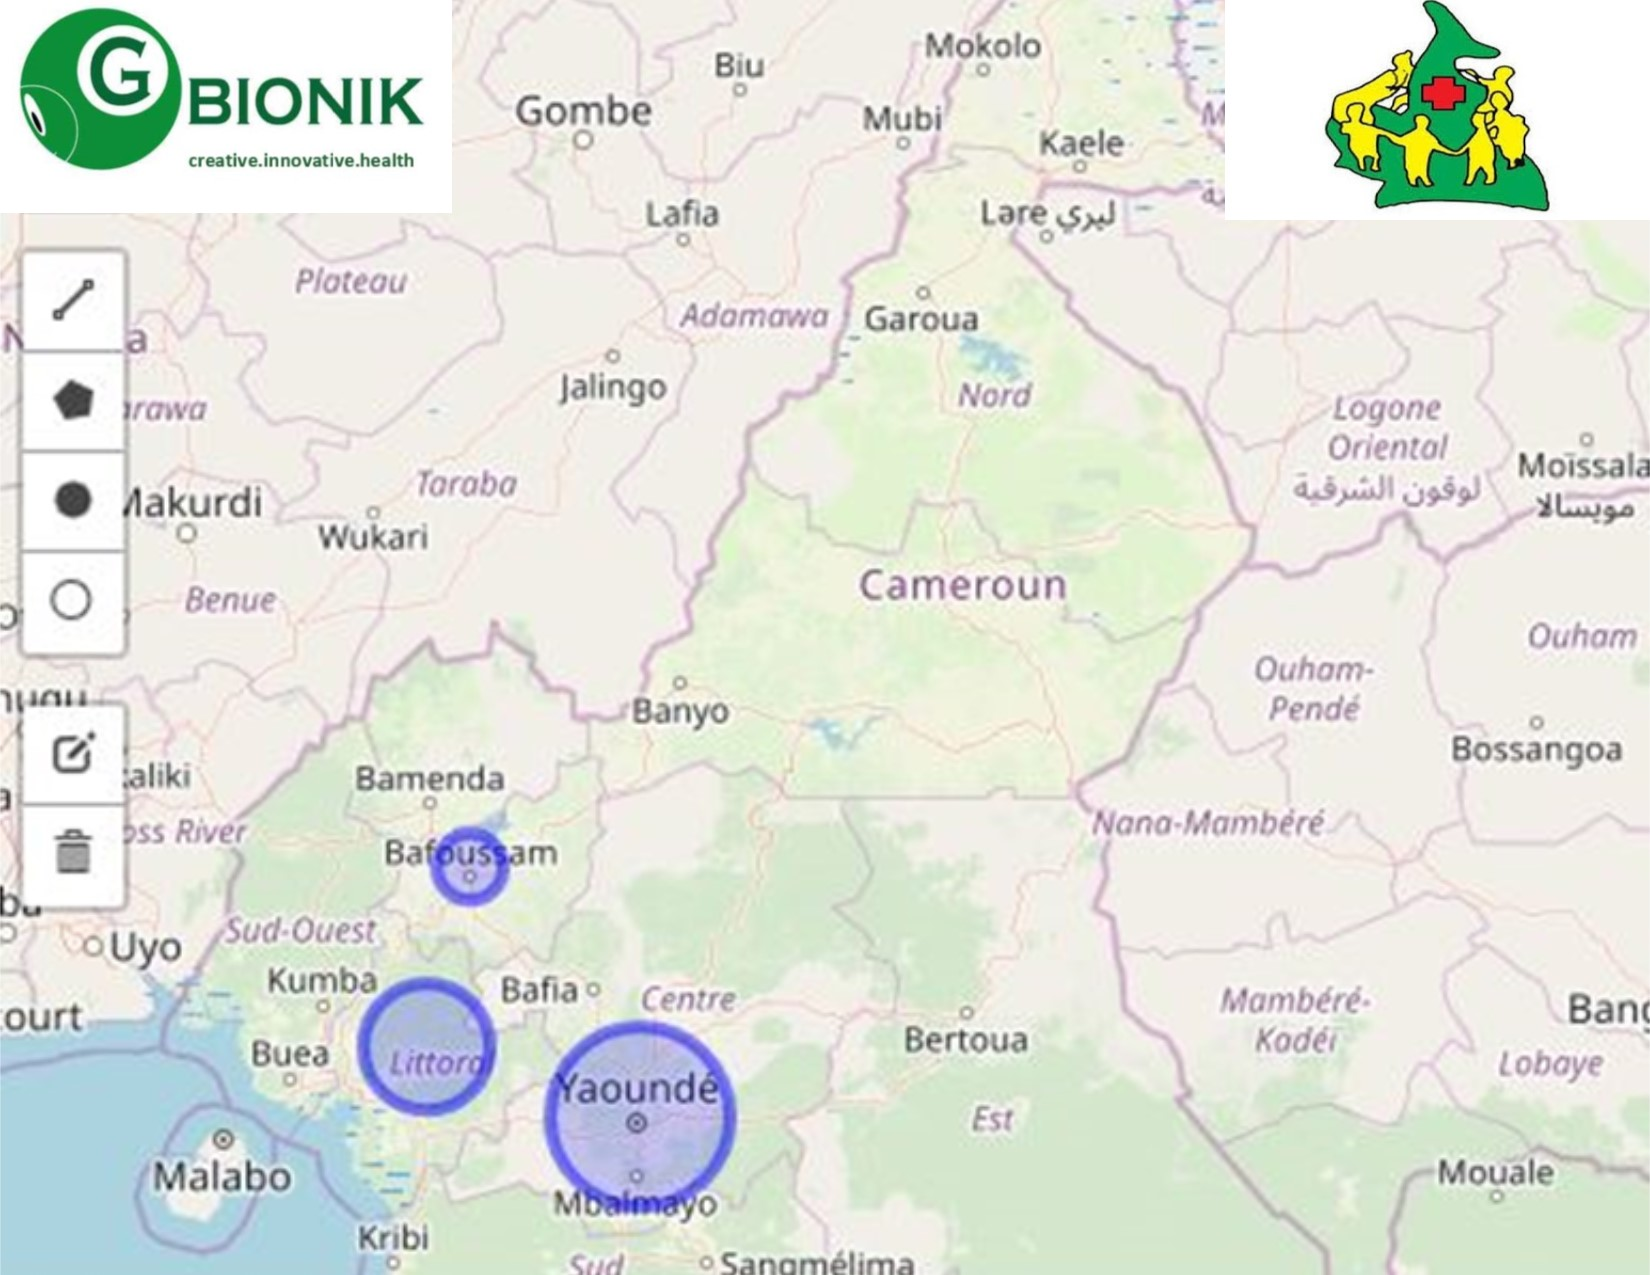
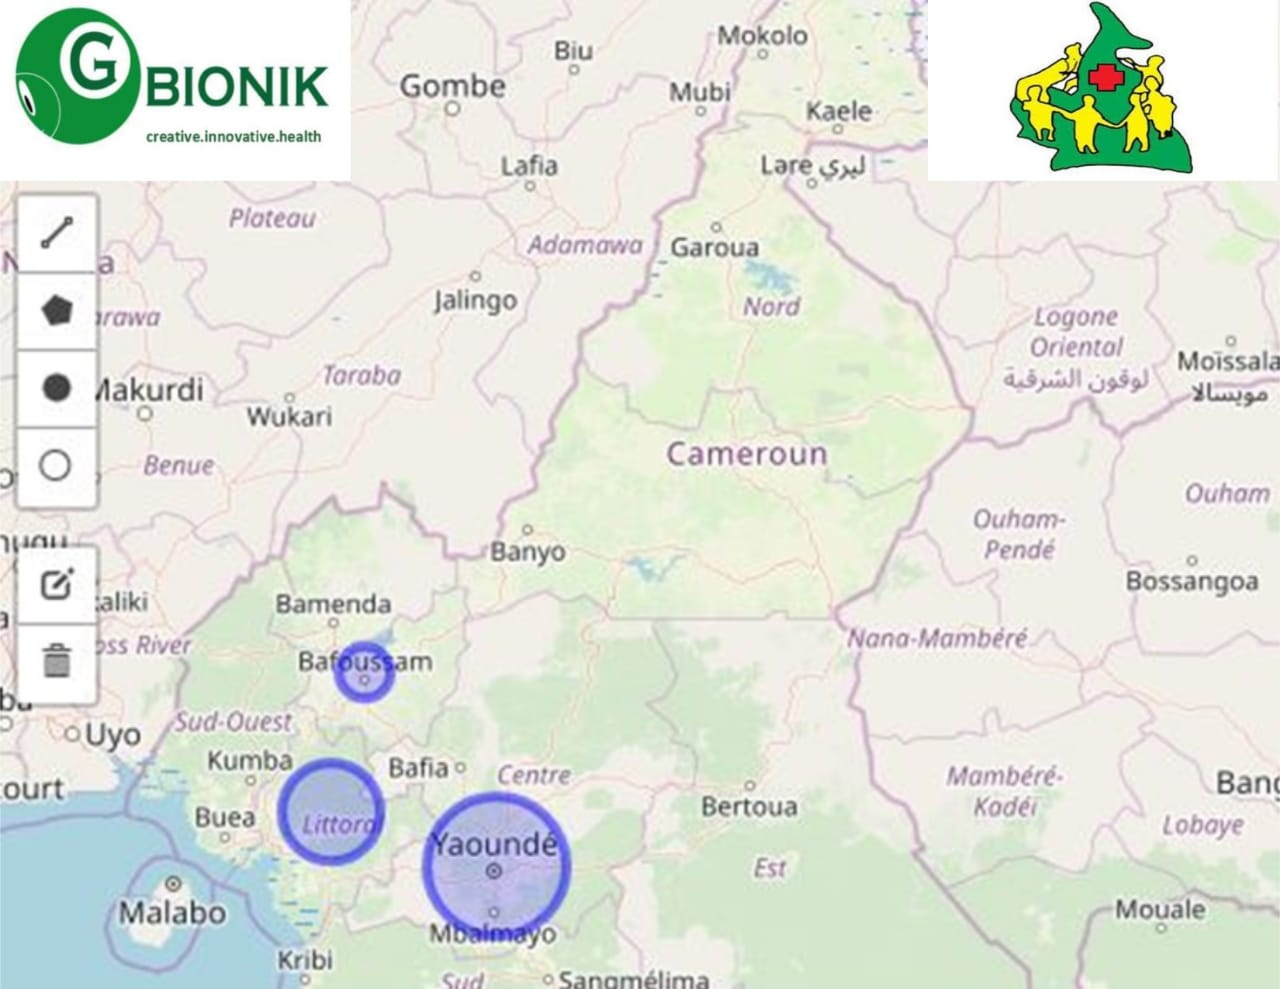
first commit

Changed region(s): [[0.0, 0.0, 0.2812, 0.182], [0.7188, 0.0, 0.9688, 0.182], [0.25, 0.1517, 0.2812, 0.182]]

diff --git a/scripts.js b/scripts.js
@@ -1,84 +1,84 @@
 function validate(){
-  var nameri = document.getElementById("Votre Score RI").value;
-  var namerg = document.getElementById("Votre Score RG").value;
-   var name = document.getElementById("Noms et Prenoms").value;
-   
-  var age = document.getElementById("Âge").value;
-  var quartier = document.getElementById("Quartier").value;
-  var ville = document.getElementById("Ville").value;
-  var phone = document.getElementById("Contact Personnel").value;
-  var percontact = document.getElementById("Personne à contacter").value;
-  var sexe = document.getElementById("Sexe").value;
-  var adpro = document.getElementById("Addresse professionnelle").value;
-  var email = document.getElementById("Email").value;
-  var error_message = document.getElementById("error_message");
+    var nameri = document.getElementById("Votre Score RI").value;
+    var namerg = document.getElementById("Votre Score RG").value;
+     var name = document.getElementById("Noms et Prenoms").value;
+     
+    var age = document.getElementById("Ã‚ge").value;
+    var quartier = document.getElementById("Quartier").value;
+    var ville = document.getElementById("Ville").value;
+    var phone = document.getElementById("Contact Personnel").value;
+    var percontact = document.getElementById("Personne Ã  contacter").value;
+    var sexe = document.getElementById("Sexe").value;
+    var adpro = document.getElementById("Addresse professionnelle").value;
+    var email = document.getElementById("Email").value;
+    var error_message = document.getElementById("error_message");
+    
+    error_message.style.padding = "10px";
+    
+  sex = name="entry.1512074174"
   
-  error_message.style.padding = "10px";
+    var text;
   
-sex = name="entry.1512074174"
-
-  var text;
-
-  if(nameri.length > 2){
-    text = "Entrez un correct Score RI";
-    error_message.innerHTML = text;
-    return false; 
-  }  
-  if(namerg.length > 2){
-    text = "Entrez un correct Score RG";
-    error_message.innerHTML = text;
-    return false; 
-  }  
-
-  if(name.length < 5){
-    text = "Entrez plus de lettres";
-    error_message.innerHTML = text;
-    return false;  
-  }
-  var sexe = document.querySelector('input[type=radio]:checked');
-	if(!sexe){
-    text = "selectionnez votre sexe";
-    error_message.innerHTML = text;
-    return false;
-	}
-  if(age.length > 2){
-    text = "Entrez un âge correct";
-    error_message.innerHTML = text;
-    return false;
-  }
-  if(quartier.length < 5){
-    text = "Entrez une ville correct";
-    error_message.innerHTML = text;
-    return false;}
+    if(nameri.length > 2){
+      text = "Entrez un correct Score RI";
+      error_message.innerHTML = text;
+      return false; 
+    }  
+    if(namerg.length > 2){
+      text = "Entrez un correct Score RG";
+      error_message.innerHTML = text;
+      return false; 
+    }  
   
-  if(ville.length < 5){
-    text = "Entrez une ville correct";
-    error_message.innerHTML = text;
-    return false;}
-
-  if(isNaN(phone) || phone.length != 9){
-    text = "Entrez un correct numéro personnel";
-    error_message.innerHTML = text;
-    return false;
-  }
-  if(isNaN(percontact) || percontact.length != 9){
-    text = "Entrez un numéro Valide";
-    error_message.innerHTML = text;
-    return false;}
-
-    if(adpro.length < 10){
-      text = "Entrez une addresse correct";
+    if(name.length < 5){
+      text = "Entrez plus de lettres";
+      error_message.innerHTML = text;
+      return false;  
+    }
+    var sexe = document.querySelector('input[type=radio]:checked');
+      if(!sexe){
+      text = "selectionnez votre sexe";
+      error_message.innerHTML = text;
+      return false;
+      }
+    if(age.length > 2){
+      text = "Entrez un Ã¢ge correct";
+      error_message.innerHTML = text;
+      return false;
+    }
+    if(quartier.length < 5){
+      text = "Entrez une ville correct";
+      error_message.innerHTML = text;
+      return false;}
+    
+    if(ville.length < 5){
+      text = "Entrez une ville correct";
       error_message.innerHTML = text;
       return false;}
   
-
-  if(email.indexOf("@") == -1 || email.length < 6){
-    text = "Entrez un email valide";
-    error_message.innerHTML = text;
-    return false;
-
+    if(isNaN(phone) || phone.length != 9){
+      text = "Entrez un correct numÃ©ro personnel";
+      error_message.innerHTML = text;
+      return false;
+    }
+    if(isNaN(percontact) || percontact.length != 9){
+      text = "Entrez un numÃ©ro Valide";
+      error_message.innerHTML = text;
+      return false;}
+  
+      if(adpro.length < 10){
+        text = "Entrez une addresse correct";
+        error_message.innerHTML = text;
+        return false;}
+    
+  
+    if(email.indexOf("@") == -1 || email.length < 6){
+      text = "Entrez un email valide";
+      error_message.innerHTML = text;
+      return false;
+  
+    }
+    document.getElementById("iVotre Score RI").value = score
+    alert("Form Submitted Successfully!");
+    return true;
   }
-  document.getElementById("iVotre Score RI").value = score
-  alert("Form Submitted Successfully!");
-  return true;
-}

diff --git a/Enregistrement.html b/Enregistrement.html
@@ -1,7 +1,6 @@
+
 <!DOCTYPE html>
 <html lang="en">
-
-<!-- Mirrored from gbionik.com/Enregistrement.html by HTTrack Website Copier/3.x [XR&CO'2014], Fri, 17 Apr 2020 03:21:02 GMT -->
 <head>
     <meta charset="UTF-8">
     <meta name="viewport" content="width=device-width, initial-scale=1.0">
@@ -20,12 +19,12 @@
     </div>
     <div class="main-div" style="margin-top: 30px; width: 60%; display: inline-block; vertical-align: top;">
         <div style="text-align: center; margin-top: 40px;">
-            <button style="border: 3px solid green; height: 50px; width: 150px; border-radius: 10px; padding: 10px;"><a href="index-2.html"> NOUVEAU TEST </a></button>
+            <button style="border: 3px solid green; height: 50px; width: 150px; border-radius: 10px; padding: 10px;"><a href="index.html"> NOUVEAU TEST </a></button>
         </div>
 
         <script type="text/javascript">var submitted=false;  </script>
         <iframe name="hidden_iframe" style="display:none;"
-        onload="if(submitted) {window.location='https://www.google.com/';}"></iframe>         
+        onload="if(submitted) {window.location='https://www.google.com';}"></iframe>         
         <form action="https://docs.google.com/forms/u/0/d/e/1FAIpQLSePP788kTLniAzLwKTM-5oqFIQtFfaSIvy3-55jbMmTS_A1-Q/formResponse" method="post" target="_blank"
         onsubmit="submitted=true" style="max-width:408px; margin:auto; margin-top: 100px;">
 
@@ -94,6 +93,4 @@
 <script src="question.js"></script>
 <script src="quiz-script.js"></script>
 
-
-<!-- Mirrored from gbionik.com/Enregistrement.html by HTTrack Website Copier/3.x [XR&CO'2014], Fri, 17 Apr 2020 03:21:03 GMT -->
 </html>

diff --git a/quiz-script.js b/quiz-script.js
@@ -85,11 +85,11 @@ function loadNextQuestion () {
 		container.style.display = 'none';
 		resultCont.style.display = '';
 		questionEll.textContent = 'Votre Score RI: ' + score;
-		document.getElementById("save").href="Enregistrement0ed0.html?ri="+score;
+		document.getElementById("save").href="Enregistrement.html?ri="+score;
 		if(score >= 6){
 			console.log("score : ", score)
 			document.getElementById("btnScd").style.display="inline-block";
-			document.getElementById("secondTest").href="Evaluation-gravite0ed0.html?ri="+score;
+			document.getElementById("secondTest").href="Evaluation-gravite.html?ri="+score;
 		}
 		return;
 	}
@@ -106,12 +106,12 @@ function loadNextQuestion () {
 		
 	}
 	if(score >= 6 & score <= 9 ){
-		interpretationCont.textContent = 'Seek a consultation with Doctor / Consultation Medicale, veuillez suivre le second test RG et ensuite appelez immediatement un numéro vert de votre localité. ';
+		interpretationCont.textContent = 'Seek a consultation with Doctor / Consultation Medicale, veuillez suivre le second test RG et ensuite appelez immediatement un numÃ©ro vert de votre localitÃ©. ';
 		
 		
 	}
 	if(score >= 10 & score <= 21 ){
-		interpretationCont.textContent = 'Need for emergency care / a besoin des soins en urgence, veuillez suivre le second test RG et ensuite appelez immediatement un numéro vert de votre localité.';
+		interpretationCont.textContent = 'Need for emergency care / a besoin des soins en urgence, veuillez suivre le second test RG et ensuite appelez immediatement un numÃ©ro vert de votre localitÃ©.';
 		
 	}
 

diff --git a/index.html b/index.html
@@ -1,11 +1,9 @@
 <!DOCTYPE html>
 <html>
-	
-<!-- Mirrored from gbionik.com/ by HTTrack Website Copier/3.x [XR&CO'2014], Fri, 17 Apr 2020 03:21:00 GMT -->
-<head>
+	<head>
 		<meta charset="UTF-8">
 		<meta name="viewport" content="width=device-width, initial-scale=1.0">
-		<title>TIA</title>
+		<title>Evaluation_Covid19</title>
 		<link href="https://fonts.googleapis.com/css?family=Roboto+Slab" rel="stylesheet">
 		<link href="quiz.css" rel="stylesheet">
 	</head>
@@ -17,7 +15,7 @@
 		</div>
 
 		<div id="quizContainer" class="container">
-			<div class="title">TIA</div>
+			<div class="title">Evaluation Covid-19</div>
 			<div id="question" class="question"></div>
 			<label class="option"><input type="radio" name="option" value="1" /> <span id="opt1"></span></label>
 			<label class="option"><input type="radio" name="option" value="2" /> <span id="opt2"></span></label>
@@ -34,7 +32,7 @@
 			
 			<div id="question1" class=""></div>
 			
-		    <div id="interpretation" class="question"><a href="index-2.html"> click here for registration </a> </div>
+		    <div id="interpretation" class="question"><a href="index.html"> click here for registration </a> </div>
 		</div>
 
 
@@ -42,6 +40,4 @@
 		<script src="quiz-script.js"></script>
 		<script src="scripts.js"></script>
 	</body>
-
-<!-- Mirrored from gbionik.com/ by HTTrack Website Copier/3.x [XR&CO'2014], Fri, 17 Apr 2020 03:21:02 GMT -->
 </html>

diff --git a/Evaluation-gravite.html b/Evaluation-gravite.html
@@ -1,8 +1,6 @@
 <!DOCTYPE html>
 <html>
-	
-<!-- Mirrored from gbionik.com/Evaluation-gravite.html by HTTrack Website Copier/3.x [XR&CO'2014], Fri, 17 Apr 2020 03:21:03 GMT -->
-<head>
+	<head>
 		<meta charset="UTF-8">
 		<meta name="viewport" content="width=device-width, initial-scale=1.0">
 		<title>Quiz</title>
@@ -29,7 +27,7 @@
 			
 			<div id="question1" class=""></div>
 			
-		    <div id="interpretation" class="question"><a href="index-2.html"> click here for registration </a> </div>
+		    <div id="interpretation" class="question"><a href="index.html"> click here for registration </a> </div>
 		</div>
 
 
@@ -37,6 +35,4 @@
 		<script src="quiz-script2.js"></script>
 		<script src="scripts.js"></script>
 	</body>
-
-<!-- Mirrored from gbionik.com/Evaluation-gravite.html by HTTrack Website Copier/3.x [XR&CO'2014], Fri, 17 Apr 2020 03:21:03 GMT -->
 </html>

diff --git a/quiz-script2.js b/quiz-script2.js
@@ -79,7 +79,7 @@ function loadNextQuestion () {
 		container.style.display = 'none';
 		resultCont.style.display = '';
 		questionEll.textContent = 'Votre Score RG: ' + score;
-		document.getElementById("save").href="Enregistrement0ed0.html?ri="+RI+"&rg="+score;
+		document.getElementById("save").href="Enregistrement.html?ri="+RI+"&rg="+score;
 		return;
 	}
 	

diff --git a/quiz.css b/quiz.css
@@ -2,7 +2,7 @@
 
 body{
 	font-family: 'Roboto Slab', serif;
-	background: url('tatiana.jpg');
+	background: url('tatiana.JPG');
 	background-size: cover;
 }
 
@@ -104,7 +104,6 @@ body{
 	text-decoration: none;
 	display: inline-block;
 }
-
 
 
 

diff --git a/quiz2.css b/quiz2.css
@@ -2,7 +2,7 @@
 
 body{
 	font-family: 'Roboto Slab', serif;
-	background: url('tatiana.jpg');
+	background: url('tatiana.JPG');
 	background-size: cover;
 }
 
@@ -96,7 +96,6 @@ body{
 	background: #08038C;
 	color: #000;
 }
-
 
 
 

diff --git a/question.js b/question.js
@@ -66,4 +66,3 @@ var questions = [{
     "answer": "1"
  }
 ];
-

diff --git a/question2.js b/question2.js
@@ -36,4 +36,3 @@ var questions = [{
    "answer": "1"
 },
 ];
-
